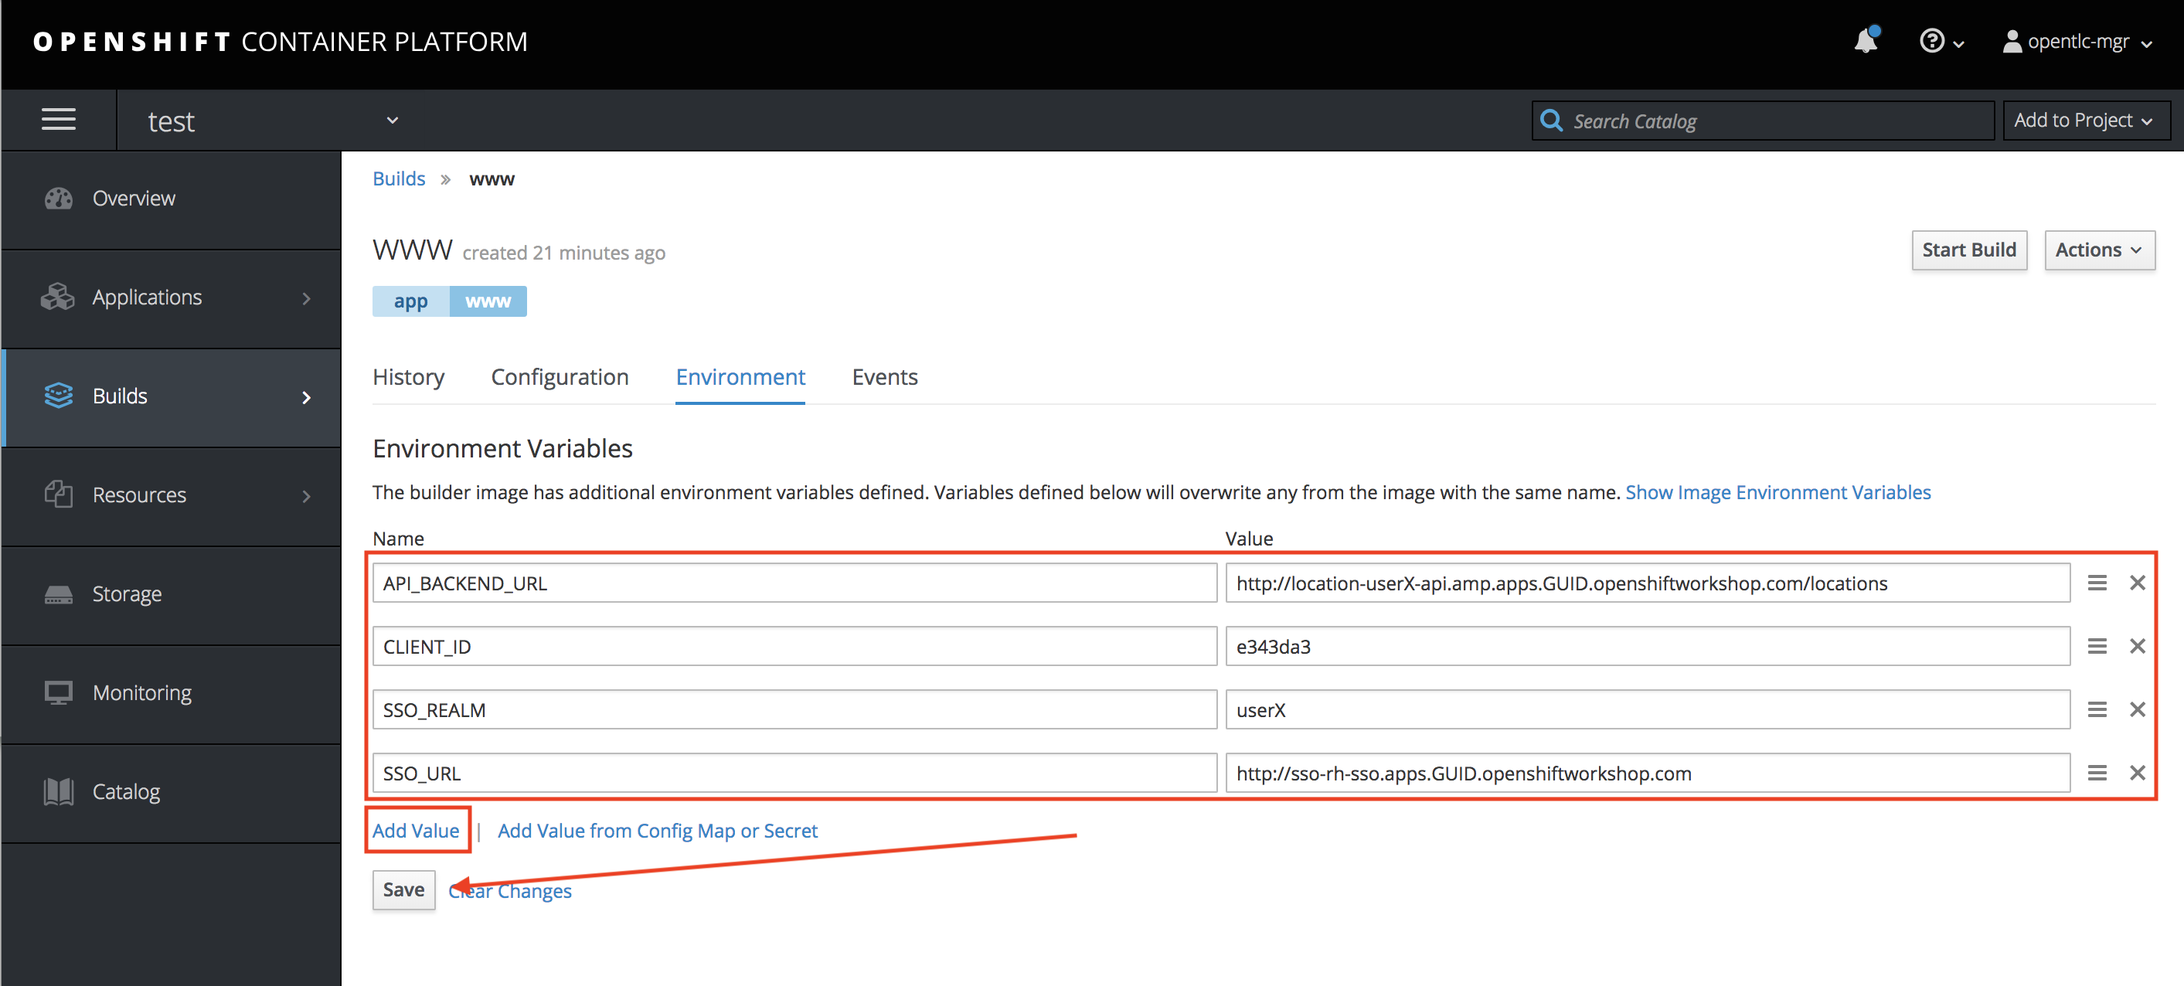
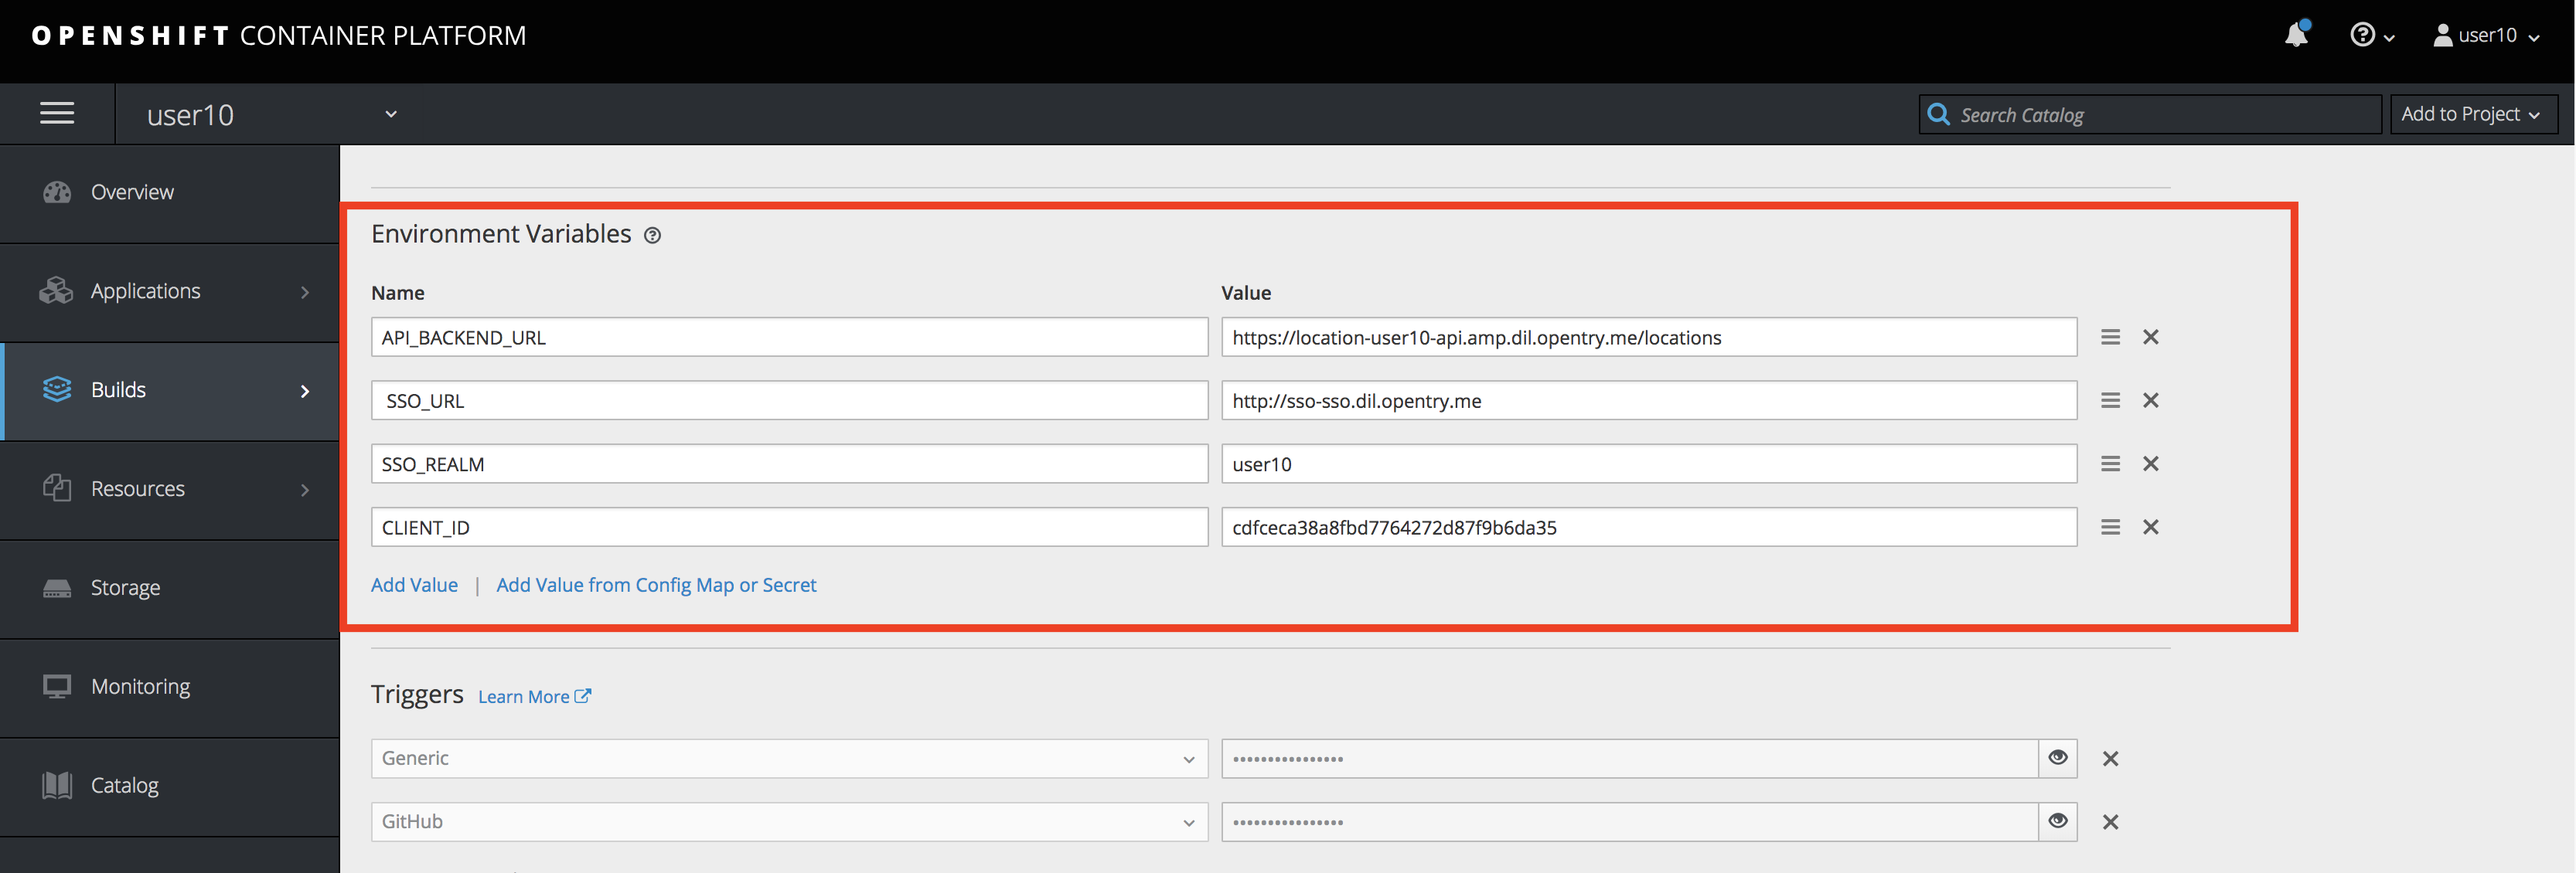
update lab08 for issue #171

diff --git a/docs/labs/developer-track/lab08/README.md b/docs/labs/developer-track/lab08/README.md
@@ -57,37 +57,6 @@ Once the environment is provisioned, you will be presented with a page that pres
 
 ## Lab Instructions
 
-### Step 0: Setup the collaboration environment using Git (Gogs)
-
-For this lab we require a collaboration environment based on Git. You can use GitHub, GitLab or other Git provider to finish this lab. If you don't want to use your personal account, the provided lab environment has an user provided for you in Gogs.
-
-Follow this instructions to set up the repository.
-
-1. Open a browser window and navigate to:
-
-    ```bash
-    http://gogs.dil.opentry.me/user/login?redirect_to=
-    ```
-
-1. Log into Gogs using your designated [user and password](#environment). Click on **Sign In**.
-
-    ![gogs-sign-in](images/consume-01.png "Sign In")
-
-1. In the main page, click in the **+** sign in the right top corner to display the *New* menu. Click the **New Migration** option.
-
-    ![gogs-new](images/consume-02.png "New Migration")
-
-1. Fill in the information of the repository migration with the following values:
-
-    * Clone Address: **https://github.com/jbossdemocentral/3scaleworkshop-wwwpage.git**
-    * Owner: **UserX**
-    * Repository Name: **www-page**
-
-    ![gogs-migration](images/consume-03.png "New Migration Repository")
-
-1. Click on **Migrate Repository** to fork the GitHub repo into Gogs.
-
-    *You now have a working copy of the International Inc Web page. If you know how to, clone the repository to work locally, or you can continue working using Gogs online editor*.
 
 ### Step 1: Deploying International Inc Web Page
 
@@ -153,7 +122,7 @@ International Inc web development create a Node.js application for the company h
     * Name: **API\_BACKEND\_URL**
     * Value: **http://location-service-OCPPROJECT.dil.opentry.me/locations**
 
-    *Remember to replace OCPPROJECT as in your previous Dev labs (Lab 03/04)*.
+    *Remember to replace OCPPROJECT(userX) as in your previous Dev labs (Lab 03/04)*.
 
     ![11-environment](images/deploy-11.png)
 
@@ -183,145 +152,8 @@ International Inc web development create a Node.js application for the company h
 
 1. In the next step we will update the Locations page to use the 3scale protected API.
 
-### Step 2: Calling a Secured Service with Red Hat Single Sign On
 
-In this step, we will edit the code provided by development to add keycloak. Keycloak is the upstream project powering Red Hat Single Sign On. The Keycloack Javascript Adapter simplifies the required code to interact with the OpenID Connect authentication flows.
-
-1. Go back to your Git repository and navigate to **dev** folder.
-
-    ![15-dev-folder](images/consume-15.png "Dev Folder")
-
-1. Click on the **locations.html** link to open the file.
-
-    ![16-locations-file](images/consume-16.png "Locations File")
-
-1. Change to *edit* mode clicking on the pencil icon on the right side. 
-
-    ![17-locations-edit](images/consume-17.png "Locations Edit")
-
-1. Scroll down the page an look for the following code:
-
-    ```bash
-    <!-- Keycloak Adapter Start-->
-
-    <!-- Keycloak Adapter End -->
-    ```
-
-1. Import the Javascript Adapter library by pasting between the previous markers the following code:
-
-    ```bash
-    <script src="SSO_URL/auth/js/keycloak.js"></script>
-    ```
-1. Continue scrolling down until you find the next markers:
-
-    ```bash
-    <!-- Keycloak Login Start -->
-
-    <!-- Keycloak Login End -->
-    ```
-
-1. Here we will add a **Login** button so users can start the Authentication Flow. It will disapear and be replaced with the map when user is logged in. Paste between the markers the following code:
-
-    ```bash
-    <p><a id="loginUrl" href="#" class="btn btn-primary">Sign In to access the Location API Service</a></p>
-    ```
-
-1. Continue scrolling down until you find the next markers:
-
-    ```bash
-    // Keycloak Config Start
-
-    callService(mymap)
-
-    // Keycloak Config End
-    ```
-
-1. Replace the code between the markers with the following snippet:
-
-    ```bash
-    var keyOptions = {
-        url: 'SSO_URL/auth',
-        realm: 'SSO_REALM',
-        clientId: 'CLIENT_ID'
-    };
-
-    var keycloak = Keycloak(keyOptions);
-    keycloak.init({ onLoad: 'check-sso' }).success(function (authenticated) {
-        if (authenticated) {
-            $("<h4>Welcome " + keycloak.idTokenParsed.preferred_username + "</h4> ").insertBefore($('#mapid'));
-            callService(mymap, keycloak.token);
-            $('#mapid').show();
-            $('#loginUrl').hide();
-        }
-        else {
-            $('#mapid').hide();
-            $('#loginUrl').show();
-        }
-    }).error(function (data) {
-        alert('Failed to initialize keycloak: ' + data);
-    });
-
-    var opts = {
-        redirectUri: window.location.origin + "/locations.html"
-    };
-
-    var loginUrl = keycloak.createLoginUrl(opts);
-    document.getElementById('loginUrl').href = loginUrl;
-    ```
-
-1. Continue scrolling down until you find the next markers:
-
-    ```bash
-    /* Keycloack Params Start*/
-
-    /* Keycloak Params End */
-    ```
-
-1. Paste between the markers the following code:
-
-    ```bash
-    , token
-    ```
-
-1. Finally the last marker:
-
-    ```bash
-    // Keycloak Ajax Start
-
-    // Keycloak Ajax End
-    ```
-
-1. Paste between markers the last snippet:
-
-    ```bash
-    // Keycloak Ajax Start
-    headers: {
-         'Authorization': 'Bearer ' + token
-    },
-    // Keycloak Ajax End
-    ```
-
-1. Scroll to the bottom of the page. Update the *Commit Changes* inputs and click **Commit Changes** to save your work.
-
-    ![18-commit-changes](images/consume-18.png "Commit Changes")
-
-1. Because we are using self signed certificates, you will need to accept the certificate for the secured endpoint. Open a new browser tab or window and navigate to:
-
-    ```bash
-    https://location-userX-api-staging.amp.dil.opentry.me:443/locations
-    ```
-    
-    *Remember to replace the `X` variable in the URL*
-
-1. Accept the self-signed certificate if you haven't.
-
-1. You will see that your call succeeded if you see the following text in your browser:
-
-    ```bash
-    Authentication parameters missing
-    ```
-
-### Step 3: Update Red Hat Single Sign On Application Callback
+### Step 2: Update Secured Service with Red Hat Single Sign On Application Callback
 
 Redirect URLs are a critical part of the OAuth flow. After a user successfully authorizes an application, the authorization server will redirect the user back to the application with either an authorization code or access token in the URL. Because the redirect URL will contain sensitive information, it is critical that the service doesn’t redirect the user to arbitrary locations.
 
@@ -363,7 +195,7 @@ Redirect URLs are a critical part of the OAuth flow. After a user successfully a
 
 1. Finally, click **Save** button to persist the changes.
 
-### Step 4: Updating OpenShift Deployment
+### Step 3: Updating OpenShift Deployment
 
 OpenShift let you automatically redeploy your changes when you setup a Continuous Integration / Continuous Deployment (CI/CD) pipeline through the use of webhook. For this lab we will trigger the new build and deployment manually through the OpenShift Console.
 
@@ -372,17 +204,26 @@ OpenShift let you automatically redeploy your changes when you setup a Continuou
 1. Scroll down and click in the **www** link in the *BUILDS* section.
 
     ![10-builds](images/deploy-10.png "Builds")
+    
+1. Select **Edit** uner the **Actions** dropdown menu. 
+	![10-build-edit](images/03-build-edit.png "Edit Build Config")
 
-1. In the build configuration page, change to the **Environment** tab. 
+1. Under Git Repositoy URL, click on the advance options. 
+	![10-advance-option](images/11-advance-option.png "Choose Advance Option")
 
-1. **Replace** the unprotected endpoint URL with the new value of your 3scale-protected Location Service API URL. Also add this new three environment variables **SSO\_URL**, **SSO\_REALM** and **CLIENT\_ID**.
+1. Add **secured** to the Git Reference.So our new International Inc Web Page will now be using Red Hat SSO to secure it's location information.
+	![12-git-reference](images/12-git-reference.png "Edit Git Reference")
+
+
+
+1. Scroll down to Environment Variable section. **Replace** the unprotected endpoint URL with the new value of your 3scale-protected Location Service API URL. Also add this new three environment variables **SSO\_URL**, **SSO\_REALM** and **CLIENT\_ID**.
 
     _Click **Add Value** to add additional rows_.
 
     * Name: **API\_BACKEND\_URL**
     * Value: **https://location-userX-api.amp.dil.opentry.me/locations**
     * Name: **SSO\_URL**
-    * Value: **http://sso-rh-sso.apps.GUID.openshiftworkshop.com**
+    * Value: **http://sso-sso.dil.opentry.me**
     * Name: **SSO\_REALM**
     * Value: **userX**
     * Name: **CLIENT\_ID**
@@ -420,8 +261,8 @@ OpenShift let you automatically redeploy your changes when you setup a Continuou
 
 1. You are being redirected to Red Hat Single Sign On **Login Page**. Login using the user credentials you created in the [API Security Lab](../lab04/#step-2-add-user-to-realm)
 
-    * Username: **apiuser**
-    * Password: **apipassword**
+    * Username: **developer** (credentials from developer portal)
+    * Password: **PWD for developer** (credentials from developer portal)
 
     ![23-realm-login](images/consume-23.png "Login Realm")
 
